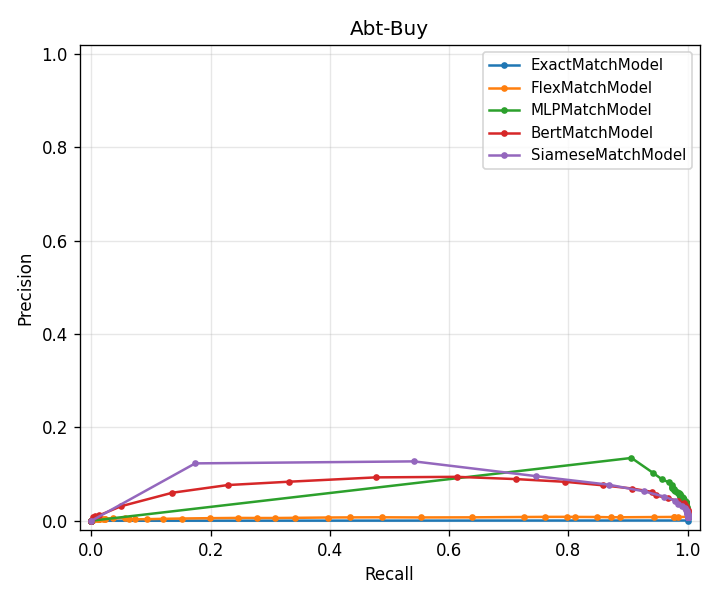
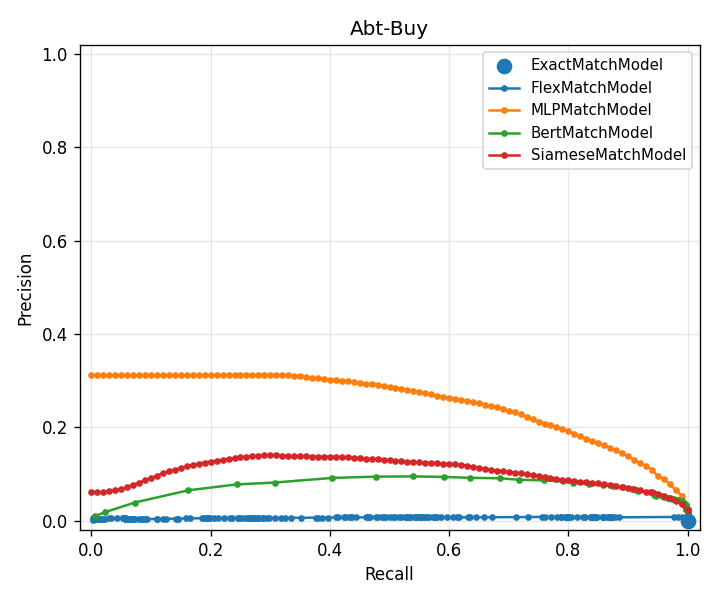
regenerate pr curves with the aggregator fix
tables unchanged - f1 at threshold 0.5 reads from the same scored
pairs. only the figures and the methodology text move.

diff --git a/paper/matchify_paper.tex b/paper/matchify_paper.tex
@@ -426,8 +426,15 @@ locating the first true positive in each ranked candidate list and
 averaging the reciprocal of its rank across all test rows. The
 classification metrics, precision, recall, and F1, are reported at a
 single fixed threshold of 0.5 over all candidate pairs the model
-produced. We additionally report a precision-recall curve produced by
-sweeping the threshold over 51 evenly-spaced points in [0, 1].
+produced. We additionally report a precision-recall curve produced
+by sweeping the threshold over the distinct observed score values
+for each model (capped at 200 quantile-thinned points so densely
+populated distributions stay readable). A fixed grid in [0, 1] is
+the conventional choice but loses resolution when scores cluster
+bimodally or in a narrow band, which collapses the resulting curve
+to a near-straight diagonal that misrepresents the precision-recall
+trade-off. Sweeping at observed values keeps every operating point
+the model can actually express.
 
 For the stochastic models (MLP and Siamese), we run training and
 evaluation with three random seeds (\texttt{random\_state} 0, 1, 2)
@@ -520,8 +527,8 @@ Siamese    & 0.917 \scriptsize{$\pm$ 0.021} & 0.608 & \textbf{1.000} & 0.756 \sc
 \end{tabular}
 \end{table}
 
-Precision-recall curves swept across 51 evenly-spaced thresholds in
-[0, 1] are shown in Figure \ref{fig:pr}. The curves are useful for
+Precision-recall curves swept across each model's observed score
+values are shown in Figure \ref{fig:pr}. The curves are useful for
 inspecting how each model trades precision against recall, since the
 single-threshold F1 reports do not capture the shape of that trade.
 
@@ -553,9 +560,10 @@ single-threshold F1 reports do not capture the shape of that trade.
 \caption{Synthetic People}
 \end{subfigure}
 \caption{Precision-recall curves across the four benchmark datasets.
-Each curve is one model swept across thresholds 0 to 1 in steps of
-0.02. ExactMatch collapses to a point because it produces a binary
-score.}
+Each curve is one model swept across the distinct observed score
+values for that model, with stochastic models averaged over three
+seeds. ExactMatch is plotted as a single marker because it produces
+a binary score and cannot interpolate a precision-recall trade-off.}
 \label{fig:pr}
 \end{figure*}
 

diff --git a/README.md b/README.md
@@ -149,7 +149,10 @@ threshold tuning.
 
 Generated by `make bench` (or `matchify model-comparisons --all
 --limit 500 --pr-curves docs/pr/`). Each curve is one model swept
-across thresholds 0..1 in 0.02 steps.
+across its distinct observed score values, capped at 200 quantile-
+thinned points. ExactMatchModel is rendered as a single marker
+because its score is binary and a connecting line would imply an
+interpolated trade-off the model cannot make.
 
 | | |
 |:-:|:-:|
